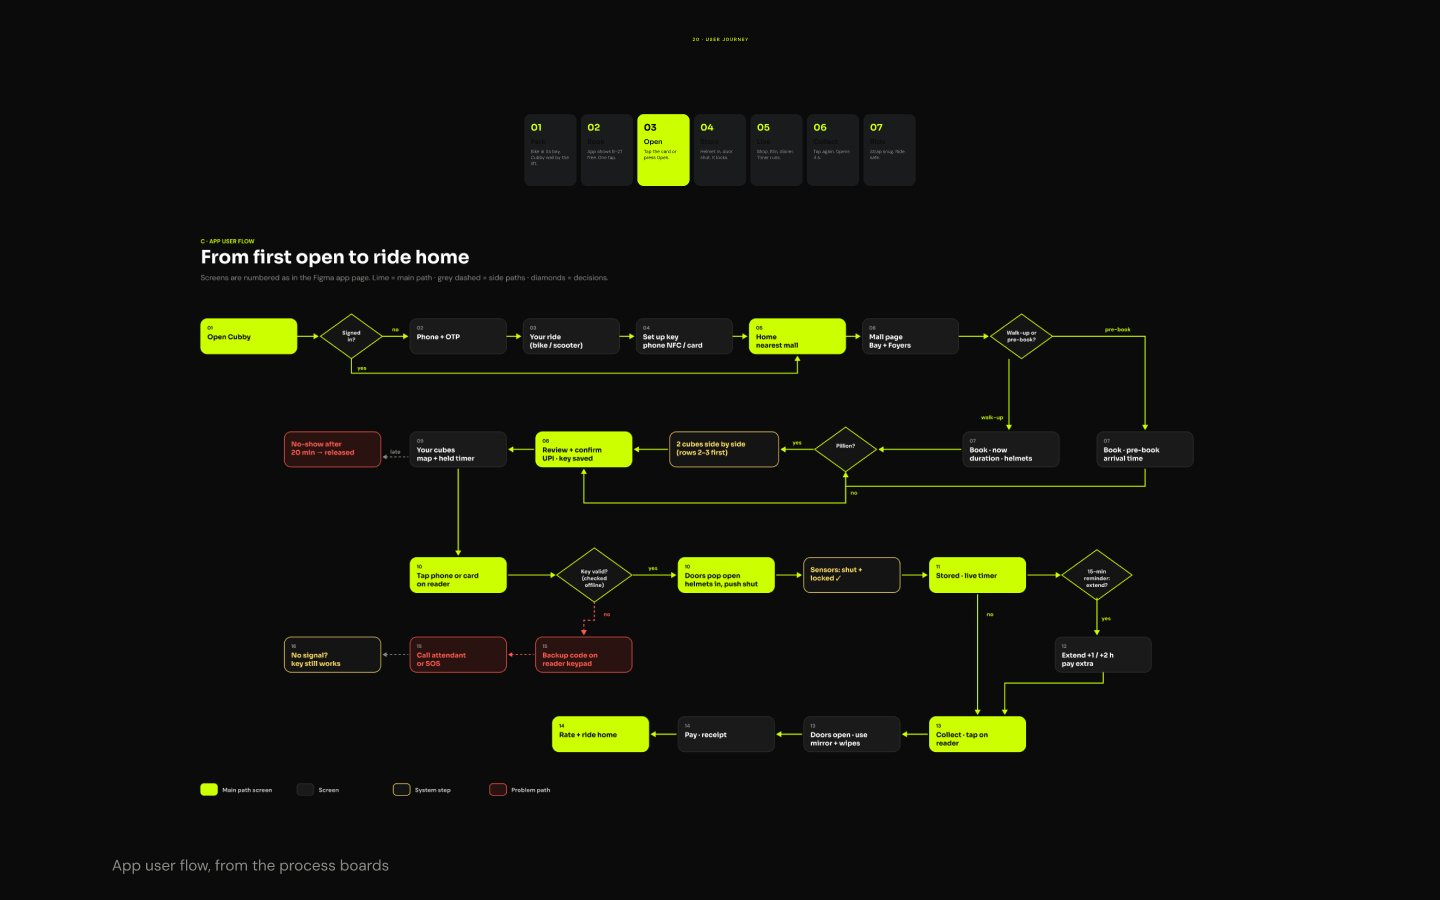
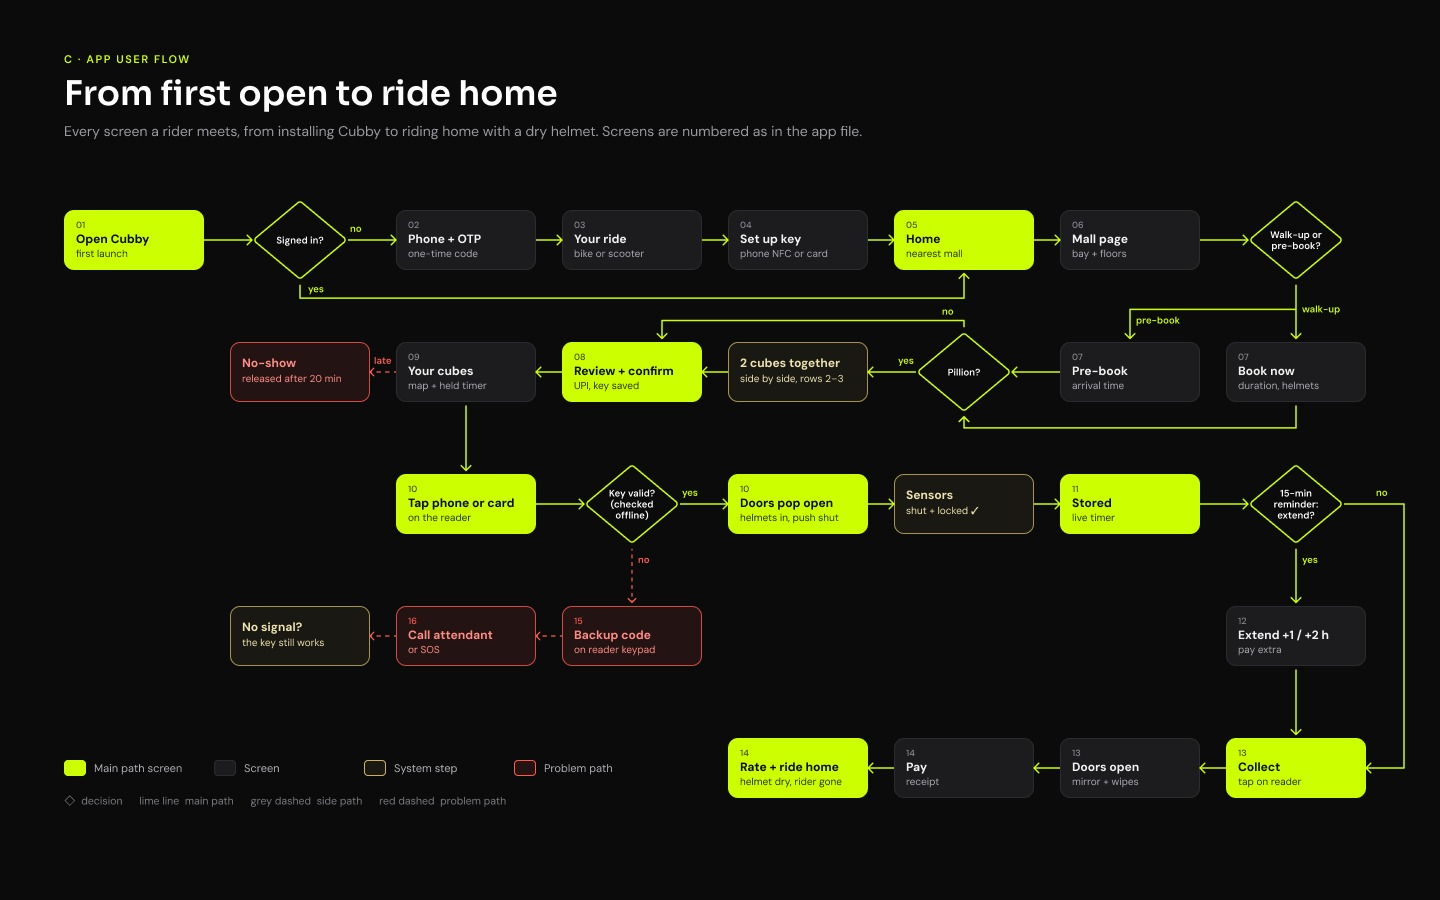
Decks: no Thank-you slide, → on the last slide opens the next project; Cubby app user flow rebuilt in Figma

diff --git a/work/syntra/index.html b/work/syntra/index.html
@@ -5,7 +5,7 @@
 <link href="https://fonts.googleapis.com/css2?family=Cormorant+Garamond:wght@300;400&family=Inter+Tight:wght@400;500&family=Lato:wght@100;300;400&display=swap" rel="stylesheet">
 <link rel="stylesheet" href="../../deck.css">
 <link rel="stylesheet" href="syntra.css">
-</head><body data-back="../../">
+</head><body data-back="../../" data-next="../../nobroker/">
 <header class="bar small"><a href="../../">← Back to the bag</a><span class="mut">Retail Tech · Syntra</span></header>
 <main class="deck"><div class="track">
 <section class="slide sx full" data-page="01" data-x="0" data-y="0" data-w="1440" data-h="721" style="--t:#f4ead5;--b:#e3d7c1;--l:#f2e6ce;--r:#ecdec4;--w:1440;--h:721" data-bg="q/b01.webp?v=2"><div class="stage"><img class="base" data-src="q/s01.webp?v=2" data-srcset="q/s01.webp?v=2 1x, q/s01@2x.webp?v=2 2x" alt="Syntra, slide 1"></div></section>
@@ -71,7 +71,6 @@
 <section class="slide sx" data-page="k-tools" data-x="155" data-y="120" data-w="1129" data-h="488" style="--t:#fcf9f5;--b:#f8f2e8;--l:#ffffff;--r:#efdfc5;--w:1129;--h:488" data-bg="q/b62.webp?v=2"><div class="stage"><img class="base" data-src="q/s62.webp?v=2" data-srcset="q/s62.webp?v=2 1x, q/s62@2x.webp?v=2 2x" alt="Syntra, slide 62"></div></section>
 <section class="slide sx full" data-page="15" data-x="0" data-y="0" data-w="1440" data-h="814" style="--t:#fefefd;--b:#fbf7f0;--l:#fefefe;--r:#f3e7d3;--w:1440;--h:814" data-bg="q/b63.webp?v=2"><div class="stage"><img class="base" data-src="q/s63.webp?v=2" data-srcset="q/s63.webp?v=2 1x, q/s63@2x.webp?v=2 2x" alt="Syntra, slide 63"></div></section>
 <section class="slide sx full" data-page="15" data-x="0" data-y="814" data-w="1440" data-h="730" style="--t:#fbf7f1;--b:#f3e7d4;--l:#f6eee1;--r:#fefefd;--w:1440;--h:730" data-bg="q/b64.webp?v=2"><div class="stage"><img class="base" data-src="q/s64.webp?v=2" data-srcset="q/s64.webp?v=2 1x, q/s64@2x.webp?v=2 2x" alt="Syntra, slide 64"></div></section>
-<section class="slide end" style="--bg:#fbf4ea"><p class="small mut">End of Syntra</p><h2>Thank you.</h2><a class="small" href="../../">← Back to the bag</a></section>
 </div></main>
 <button class="nav prev" aria-label="Previous slide"><svg viewBox="0 0 24 24" fill="none" stroke="currentColor" stroke-width="1.6"><path d="M15 5l-7 7 7 7"/></svg></button>
 <button class="nav next" aria-label="Next slide"><svg viewBox="0 0 24 24" fill="none" stroke="currentColor" stroke-width="1.6"><path d="M9 5l7 7-7 7"/></svg></button>

diff --git a/cubby/index.html b/cubby/index.html
@@ -4,7 +4,7 @@
 <link rel="preconnect" href="https://fonts.googleapis.com">
 <link href="https://fonts.googleapis.com/css2?family=Cormorant+Garamond:wght@300;400&family=Inter+Tight:wght@400;500&display=swap" rel="stylesheet">
 <link rel="stylesheet" href="../deck.css">
-</head><body data-back="../">
+</head><body data-back="../" data-next="../work/syntra/">
 <header class="bar small"><a href="../">← Back to the bag</a><span class="mut">Design Project 02 · Cubby</span></header>
 <main class="deck"><div class="track">
 <section class="slide title"><div class="txt"><p class="small mut">Design Project 02 · Semester 03 · 2026</p><h1>Cubby</h1><p class="lead">A home for your helmet. Safe helmet storage where riders actually park: mall basements and cinemas. Scan a QR, book a Cubby, ride light. Eight weeks of research at Phoenix, Mantri and Orion, through to a working prototype.</p></div><img class="obj" src="../bag.webp" alt=""></section>
@@ -64,7 +64,7 @@
 <section class="slide"><img data-src="c54.jpg" alt="Cubby slide 54"></section>
 <section class="slide"><img data-src="c55.jpg" alt="Cubby slide 55"></section>
 <section class="slide"><img data-src="c56.jpg" alt="Cubby slide 56"></section>
-<section class="slide"><img data-src="c57.jpg" alt="Cubby slide 57"></section>
+<section class="slide"><img data-src="c57.jpg?v=2" alt="Cubby slide 57"></section>
 <section class="slide"><img data-src="c58.jpg" alt="Cubby slide 58"></section>
 <section class="slide"><img data-src="c59.jpg" alt="Cubby slide 59"></section>
 <section class="slide"><img data-src="c60.jpg" alt="Cubby slide 60"></section>
@@ -88,7 +88,6 @@
 <section class="slide"><img data-src="c78.jpg" alt="Cubby slide 78"></section>
 <section class="slide"><img data-src="c79.jpg" alt="Cubby slide 79"></section>
 <section class="slide"><img data-src="c80.jpg" alt="Cubby slide 80"></section>
-<section class="slide end"><p class="small mut">End of Cubby</p><h2>Thank you.</h2><a class="small" href="../">← Back to the bag</a></section>
 </div></main>
 <button class="nav prev" aria-label="Previous slide"><svg viewBox="0 0 24 24" fill="none" stroke="currentColor" stroke-width="1.6"><path d="M15 5l-7 7 7 7"/></svg></button>
 <button class="nav next" aria-label="Next slide"><svg viewBox="0 0 24 24" fill="none" stroke="currentColor" stroke-width="1.6"><path d="M9 5l7 7-7 7"/></svg></button>

diff --git a/deck.js b/deck.js
@@ -3,19 +3,21 @@
   const track = document.querySelector('.track'), slides = [...track.children];
   const bar = document.querySelector('.prog i'), count = document.getElementById('count');
   const prev = document.querySelector('.nav.prev'), next = document.querySelector('.nav.next');
-  const N = slides.length, back = document.body.dataset.back || '../';
+  const N = slides.length, back = document.body.dataset.back || '../', nextProject = document.body.dataset.next;
   let i = Math.min(N - 1, Math.max(0, (parseInt(location.hash.slice(1), 10) || 1) - 1));
 
   // load images just ahead of where you are, so the deck opens fast
   const warm = (k) => { for (let j = k - 1; j <= k + 2; j++) { if (!slides[j]) continue; slides[j].querySelectorAll('[data-src]').forEach((im) => { im.src = im.dataset.src; if (im.dataset.srcset) im.srcset = im.dataset.srcset; im.removeAttribute('data-src'); }); slides[j].querySelectorAll('[data-bg]').forEach((el) => { el.style.backgroundImage = `url(${el.dataset.bg})`; el.removeAttribute('data-bg'); }); } };
 
   function go(k, instant) {
+    if (k >= N && nextProject && !instant) { location.href = nextProject; return; }
     i = Math.max(0, Math.min(N - 1, k));
     if (instant) { track.style.transition = 'none'; requestAnimationFrame(() => track.style.transition = ''); }
     track.style.transform = `translateX(${-i * 100}vw)`;
     bar.style.width = (N > 1 ? i / (N - 1) * 100 : 100) + '%';
     count.textContent = String(i + 1).padStart(2, '0') + ' / ' + String(N).padStart(2, '0');
-    prev.disabled = i === 0; next.disabled = i === N - 1;
+    prev.disabled = i === 0; next.disabled = i === N - 1 && !nextProject;
+    next.setAttribute('aria-label', i === N - 1 && nextProject ? (nextProject === '../' || nextProject === '../../' ? 'Back to the bag' : 'Next project') : 'Next slide');
     history.replaceState(null, '', '#' + (i + 1));
     warm(i);
     slides.forEach((sl, k) => { const on = k === i; if (sl.classList.contains('on') !== on) { sl.classList.toggle('on', on); sl.dispatchEvent(new CustomEvent(on ? 'enter' : 'leave')); } });

diff --git a/nobroker/index.html b/nobroker/index.html
@@ -4,7 +4,7 @@
 <link rel="preconnect" href="https://fonts.googleapis.com">
 <link href="https://fonts.googleapis.com/css2?family=Cormorant+Garamond:wght@300;400&family=Inter+Tight:wght@400;500&display=swap" rel="stylesheet">
 <link rel="stylesheet" href="../deck.css">
-</head><body data-back="../">
+</head><body data-back="../" data-next="../sla3/">
 <header class="bar small"><a href="../">← Back to the bag</a><span class="mut">Design Management · No-Broker</span></header>
 <main class="deck"><div class="track">
 <section class="slide title"><div class="txt"><p class="small mut">Design Management · Semester 03 · 2026</p><h1>No-Broker</h1><p class="lead">Taking NoBroker into India’s Tier-2 cities, starting with the Chandigarh Tricity: market research, a trust-first campaign, the app layer and the investment plan.</p></div><img class="obj" src="../notebook.png" alt=""></section>
@@ -51,7 +51,6 @@
 <section class="slide"><img data-src="n41.webp" data-srcset="n41.webp 1440w, n41@2x.webp 2880w" sizes="100vw" alt="No-Broker slide 41"></section>
 <section class="slide"><img data-src="n42.webp" data-srcset="n42.webp 1440w, n42@2x.webp 2880w" sizes="100vw" alt="No-Broker slide 42"></section>
 <section class="slide"><img data-src="n43.webp" data-srcset="n43.webp 1440w, n43@2x.webp 2880w" sizes="100vw" alt="No-Broker slide 43"></section>
-<section class="slide end"><p class="small mut">End of No-Broker</p><h2>Thank you.</h2><a class="small" href="../">← Back to the bag</a></section>
 </div></main>
 <button class="nav prev" aria-label="Previous slide"><svg viewBox="0 0 24 24" fill="none" stroke="currentColor" stroke-width="1.6"><path d="M15 5l-7 7 7 7"/></svg></button>
 <button class="nav next" aria-label="Next slide"><svg viewBox="0 0 24 24" fill="none" stroke="currentColor" stroke-width="1.6"><path d="M9 5l7 7-7 7"/></svg></button>

diff --git a/sla3/index.html b/sla3/index.html
@@ -4,7 +4,7 @@
 <link rel="preconnect" href="https://fonts.googleapis.com">
 <link href="https://fonts.googleapis.com/css2?family=Cormorant+Garamond:wght@300;400&family=Inter+Tight:wght@400;500&display=swap" rel="stylesheet">
 <link rel="stylesheet" href="../deck.css">
-</head><body data-back="../">
+</head><body data-back="../" data-next="../ather/">
 <header class="bar small"><a href="../">← Back to the bag</a><span class="mut">Visual Narratives · SLA III</span></header>
 <main class="deck"><div class="track">
 <section class="slide title"><div class="txt"><p class="small mut">Visual Narratives · Semester 03 · 2026</p><h1>SLA III</h1><p class="lead">Two photo series. Constructed Horizons isolates fragments of the built environment against the sky; The Weight of Time pairs ageing people with ageing city.</p></div><img class="obj" src="../glasses.png" alt=""></section>
@@ -32,7 +32,6 @@
 <section class="slide"><img data-src="f22.webp" data-srcset="f22.webp 1440w, f22@2x.webp 2880w" sizes="100vw" alt="SLA III slide 22"></section>
 <section class="slide"><img data-src="f23.webp" data-srcset="f23.webp 1440w, f23@2x.webp 2880w" sizes="100vw" alt="SLA III slide 23"></section>
 <section class="slide"><img data-src="f24.webp" data-srcset="f24.webp 1440w, f24@2x.webp 2880w" sizes="100vw" alt="SLA III slide 24"></section>
-<section class="slide end"><p class="small mut">End of SLA III</p><h2>Thank you.</h2><a class="small" href="../">← Back to the bag</a></section>
 </div></main>
 <button class="nav prev" aria-label="Previous slide"><svg viewBox="0 0 24 24" fill="none" stroke="currentColor" stroke-width="1.6"><path d="M15 5l-7 7 7 7"/></svg></button>
 <button class="nav next" aria-label="Next slide"><svg viewBox="0 0 24 24" fill="none" stroke="currentColor" stroke-width="1.6"><path d="M9 5l7 7-7 7"/></svg></button>

diff --git a/ather/index.html b/ather/index.html
@@ -4,7 +4,7 @@
 <link rel="preconnect" href="https://fonts.googleapis.com">
 <link href="https://fonts.googleapis.com/css2?family=Cormorant+Garamond:wght@300;400&family=Inter+Tight:wght@400;500&display=swap" rel="stylesheet">
 <link rel="stylesheet" href="../deck.css">
-</head><body data-back="../">
+</head><body data-back="../" data-next="../ergonomics/">
 <header class="bar small"><a href="../">← Back to the bag</a><span class="mut">Retail Systems &amp; Processes · Ather Energy</span></header>
 <main class="deck"><div class="track">
 <section class="slide title"><div class="txt"><p class="small mut">Retail Systems &amp; Processes · Semester 03 · 2026</p><h1>Ather Energy</h1><p class="lead">With Utsav Sharma. Reading Ather’s retail system end to end: market, brand, stores and users, then designing the Halo kiosk and a merchandise revamp.</p></div><img class="obj" src="../pen.png" alt=""></section>
@@ -44,7 +44,6 @@
 <section class="slide"><img data-src="a34.jpg" alt="Ather Energy slide 34"></section>
 <section class="slide"><img data-src="a35.jpg" alt="Ather Energy slide 35"></section>
 <section class="slide"><img data-src="a36.jpg" alt="Ather Energy slide 36"></section>
-<section class="slide end"><p class="small mut">End of Ather Energy</p><h2>Thank you.</h2><a class="small" href="../">← Back to the bag</a></section>
 </div></main>
 <button class="nav prev" aria-label="Previous slide"><svg viewBox="0 0 24 24" fill="none" stroke="currentColor" stroke-width="1.6"><path d="M15 5l-7 7 7 7"/></svg></button>
 <button class="nav next" aria-label="Next slide"><svg viewBox="0 0 24 24" fill="none" stroke="currentColor" stroke-width="1.6"><path d="M9 5l7 7-7 7"/></svg></button>

diff --git a/ergonomics/index.html b/ergonomics/index.html
@@ -4,7 +4,7 @@
 <link rel="preconnect" href="https://fonts.googleapis.com">
 <link href="https://fonts.googleapis.com/css2?family=Cormorant+Garamond:wght@300;400&family=Inter+Tight:wght@400;500&display=swap" rel="stylesheet">
 <link rel="stylesheet" href="../deck.css">
-</head><body data-back="../">
+</head><body data-back="../" data-next="../">
 <header class="bar small"><a href="../">← Back to the bag</a><span class="mut">Ergonomics</span></header>
 <main class="deck"><div class="track">
 <section class="slide title"><div class="txt"><p class="small mut">Ergonomics · Semester 03 · 2026</p><h1>Ergonomics</h1><p class="lead">A lift panel that a standing adult and a wheelchair user can both reach, then a team audit of IKEA Bangalore: wayfinding, showroom vs warehouse, decision support, sensory load and accessibility.</p></div><img class="obj" src="../lipbalm.png" alt=""></section>
@@ -15,7 +15,6 @@
 <section class="slide"><img data-src="e05.webp" alt="Template C: decision support"></section>
 <section class="slide"><img data-src="e06.webp" alt="Template D: sensory load"></section>
 <section class="slide"><img data-src="e07.webp" alt="Template E: accessibility"></section>
-<section class="slide end"><p class="small mut">End of Ergonomics</p><h2>Thank you.</h2><a class="small" href="../">← Back to the bag</a></section>
 </div></main>
 <button class="nav prev" aria-label="Previous slide"><svg viewBox="0 0 24 24" fill="none" stroke="currentColor" stroke-width="1.6"><path d="M15 5l-7 7 7 7"/></svg></button>
 <button class="nav next" aria-label="Next slide"><svg viewBox="0 0 24 24" fill="none" stroke="currentColor" stroke-width="1.6"><path d="M9 5l7 7-7 7"/></svg></button>
